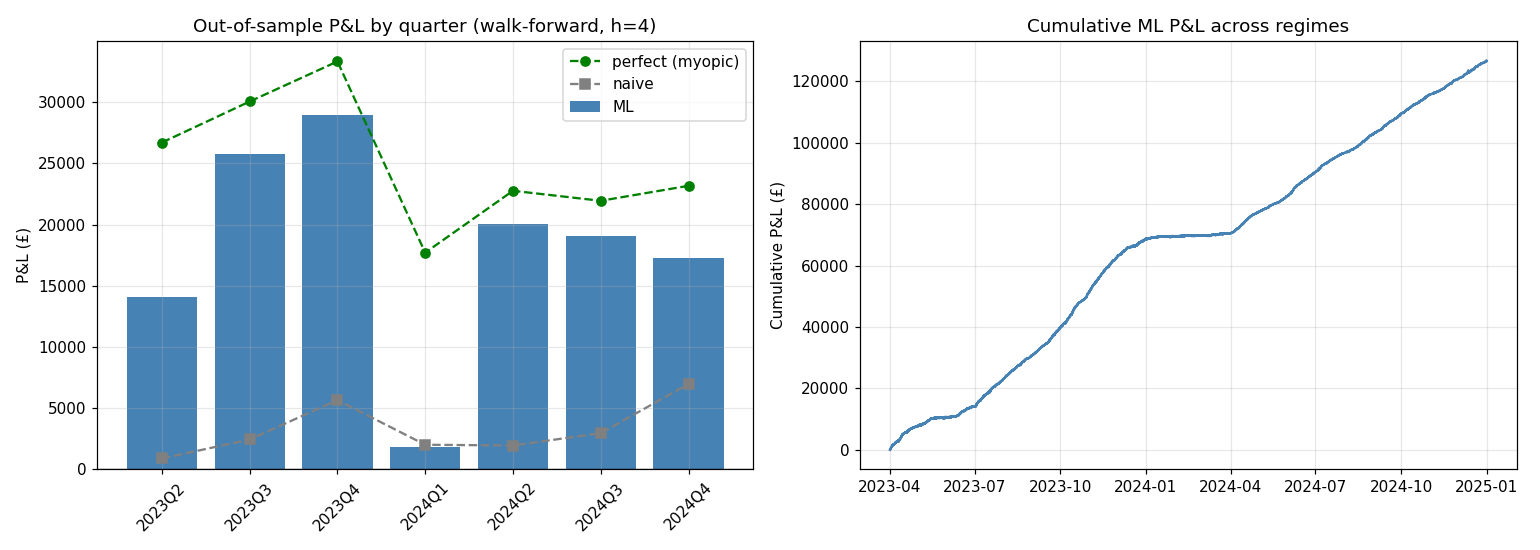
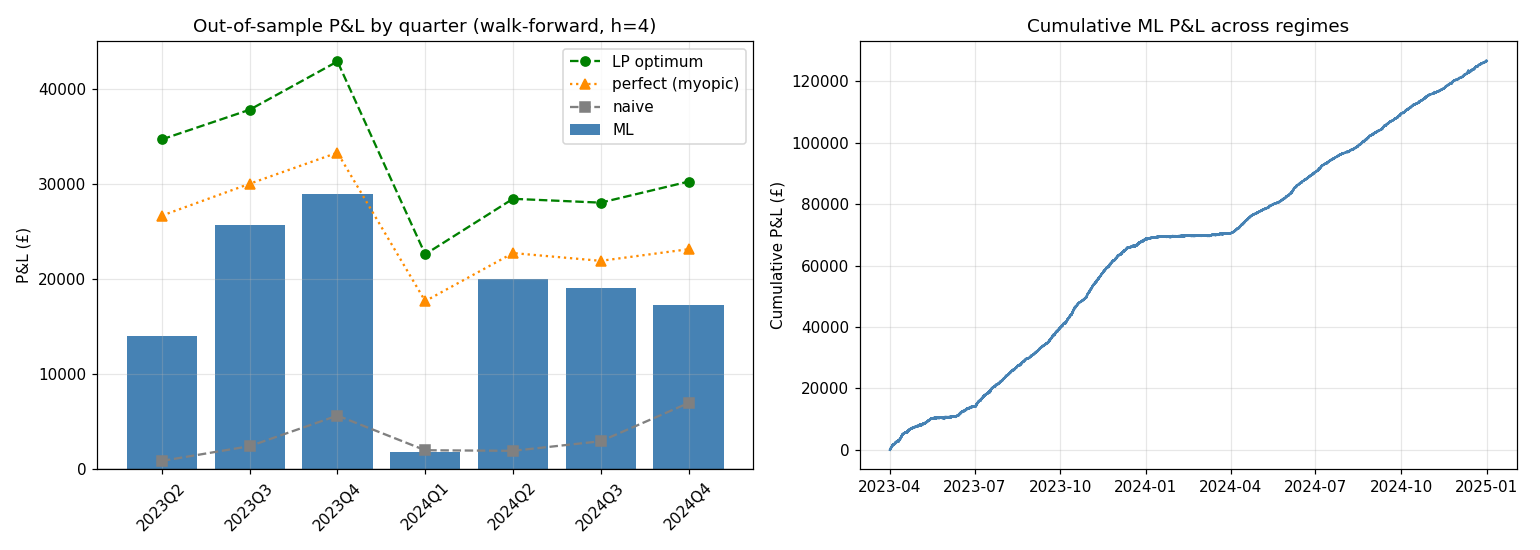
Stage 3: LP perfect-foresight optimal dispatch (true upper bound)
Adds a genuine optimal-dispatch benchmark, replacing the mislabelled myopic one
as the yardstick for captured value.

- optimize.py: linear program (scipy HiGHS) for the globally optimal charge/
  discharge schedule under all constraints (capacity, min/max SoC, per-period
  power, one-way efficiency, transaction + degradation costs, terminal MtM).
  Cheats on future prices -> benchmark only, never a strategy. No causal policy
  can beat it, so it is the true upper bound.
- backtest.py / robustness.py: report LP optimum alongside myopic + naive;
  capture is now measured against the LP optimum.
- test: LP >= myopic, never loses, respects power limits.

Result (2 years walk-forward): LP optimum > myopic > ML > naive every quarter.
The tuned ML policy captures 56% of the LP optimum (vs 72% of the weaker myopic
reference) - an honest ~44% value gap that motivates a receding-horizon (MPC)
policy feeding forecasts into the LP.

Advances issue #2 (Stage 3 optimisation). 11/11 tests pass.

diff --git a/robustness.py b/robustness.py
@@ -20,6 +20,7 @@ import matplotlib.pyplot as plt
 import pandas as pd
 
 import benchmarks
+from optimize import optimal_dispatch
 from config import load_battery_config, load_trading_config
 from data_pipeline import assemble_market_data
 from evaluate import evaluate
@@ -41,9 +42,10 @@ class QuarterResult:
     ml_sharpe: float
     ml_maxdd: float
     ml_var95: float
-    perfect_pnl: float
+    lp_pnl: float        # LP perfect-foresight optimum — the TRUE upper bound
+    myopic_pnl: float    # myopic perfect-foresight reference
     naive_pnl: float
-    capture: float   # ml_pnl / perfect_pnl (share of achievable value)
+    capture: float       # ml_pnl / lp_pnl (share of the achievable optimum)
 
 
 def run():
@@ -75,7 +77,9 @@ def run():
         ml_req = model_requests(model, X.loc[test_idx], dft, batt, trade)
         ml_sim = simulate(ml_req, ssp, sbp, batt, trade)
         ml = evaluate(ml_sim, batt)
-        perfect = evaluate(simulate(
+        lp = evaluate(simulate(
+            optimal_dispatch(dft, batt, trade), ssp, sbp, batt, trade), batt)
+        myopic = evaluate(simulate(
             benchmarks.perfect_foresight_myopic(dft, batt, trade, HORIZON), ssp, sbp, batt, trade), batt)
         naive = evaluate(simulate(
             benchmarks.naive_time_of_day(dft, batt), ssp, sbp, batt, trade), batt)
@@ -83,9 +87,9 @@ def run():
         results.append(QuarterResult(
             quarter=str(q), periods=len(test_idx),
             ml_pnl=ml.total_pnl, ml_sharpe=ml.sharpe_annualised, ml_maxdd=ml.max_drawdown,
-            ml_var95=ml.var_95_per_period, perfect_pnl=perfect.total_pnl,
+            ml_var95=ml.var_95_per_period, lp_pnl=lp.total_pnl, myopic_pnl=myopic.total_pnl,
             naive_pnl=naive.total_pnl,
-            capture=(ml.total_pnl / perfect.total_pnl) if perfect.total_pnl > 0 else float("nan"),
+            capture=(ml.total_pnl / lp.total_pnl) if lp.total_pnl > 0 else float("nan"),
         ))
         # Collect per-period P&L increments; cumsum across quarters gives a continuous
         # curve. Zero the first period of each quarter (it only revalues the identical
@@ -103,26 +107,28 @@ def run():
 def _report(results):
     print(f"\nWalk-forward by quarter (expanding window, horizon={HORIZON}):\n")
     hdr = f"{'quarter':>8}{'periods':>8}{'ML P&L':>10}{'Sharpe':>8}{'MaxDD':>8}" \
-          f"{'perfect':>10}{'naive':>9}{'capture':>9}"
+          f"{'LP opt':>10}{'myopic':>10}{'naive':>9}{'capture':>9}"
     print(hdr)
     for r in results:
         print(f"{r.quarter:>8}{r.periods:>8}{r.ml_pnl:>10,.0f}{r.ml_sharpe:>8.2f}"
-              f"{r.ml_maxdd:>8.2%}{r.perfect_pnl:>10,.0f}{r.naive_pnl:>9,.0f}{r.capture:>9.0%}")
+              f"{r.ml_maxdd:>8.2%}{r.lp_pnl:>10,.0f}{r.myopic_pnl:>10,.0f}"
+              f"{r.naive_pnl:>9,.0f}{r.capture:>9.0%}")
 
     if not results:
         print("(no quarters with enough history)")
         return
     ml_total = sum(r.ml_pnl for r in results)
-    perfect_total = sum(r.perfect_pnl for r in results)
+    lp_total = sum(r.lp_pnl for r in results)
     beats_naive = sum(r.ml_pnl > r.naive_pnl for r in results)
     profitable = sum(r.ml_pnl > 0 for r in results)
     print(f"\nAggregate over {len(results)} quarters:")
-    print(f"  ML total P&L         £{ml_total:,.0f}")
-    print(f"  Capture vs perfect   {ml_total / perfect_total:.0%}" if perfect_total else "")
-    print(f"  Profitable quarters  {profitable}/{len(results)}")
-    print(f"  Beats naive          {beats_naive}/{len(results)}")
-    print(f"  Mean quarter Sharpe  {sum(r.ml_sharpe for r in results) / len(results):.2f}")
-    print(f"  Worst quarter P&L    £{min(r.ml_pnl for r in results):,.0f}")
+    print(f"  ML total P&L            £{ml_total:,.0f}")
+    print(f"  LP optimum (ceiling)    £{lp_total:,.0f}")
+    print(f"  Capture vs LP optimum   {ml_total / lp_total:.0%}" if lp_total else "")
+    print(f"  Profitable quarters     {profitable}/{len(results)}")
+    print(f"  Beats naive             {beats_naive}/{len(results)}")
+    print(f"  Mean quarter Sharpe     {sum(r.ml_sharpe for r in results) / len(results):.2f}")
+    print(f"  Worst quarter P&L       £{min(r.ml_pnl for r in results):,.0f}")
 
 
 def _plot(results, ml_equity_pieces):
@@ -135,7 +141,8 @@ def _plot(results, ml_equity_pieces):
     fig, ax = plt.subplots(1, 2, figsize=(14, 5))
     quarters = [r.quarter for r in results]
     ax[0].bar(quarters, [r.ml_pnl for r in results], color="steelblue", label="ML")
-    ax[0].plot(quarters, [r.perfect_pnl for r in results], "o--", color="green", label="perfect (myopic)")
+    ax[0].plot(quarters, [r.lp_pnl for r in results], "o--", color="green", label="LP optimum")
+    ax[0].plot(quarters, [r.myopic_pnl for r in results], "^:", color="darkorange", label="perfect (myopic)")
     ax[0].plot(quarters, [r.naive_pnl for r in results], "s--", color="grey", label="naive")
     ax[0].axhline(0, color="black", lw=0.8)
     ax[0].set_title(f"Out-of-sample P&L by quarter (walk-forward, h={HORIZON})")

diff --git a/optimize.py b/optimize.py
@@ -1,0 +1,71 @@
+"""Stage 3 — perfect-foresight optimal dispatch via linear programming.
+
+Given the realised prices over a window, this computes the *globally* optimal
+charge/discharge schedule subject to the real battery constraints (capacity, min/max
+SoC, per-period power, one-way efficiency, transaction + degradation costs). Unlike the
+myopic ``perfect_foresight_myopic`` benchmark, this is a genuine **upper bound**: no
+causal strategy can beat it, so it is the right yardstick for "what fraction of the
+achievable value is the forecast capturing?".
+
+It cheats (uses future prices), so it is a benchmark only — never a tradeable strategy.
+
+Battery-side decision variables per period t:
+    a_t >= 0  energy added to the battery  (buy a_t/eff from grid)
+    r_t >= 0  energy removed from the battery (sell r_t*eff to grid)
+SoC_t = SoC_0 + sum_{i<=t} (a_i - r_i),   lo <= SoC_t <= hi,   0 <= a_t,r_t <= max_step.
+
+Maximise realised cash + terminal liquidation of leftover SoC (matching simulate.py's
+mark-to-market), which is linear in a, r.
+"""
+from __future__ import annotations
+
+import numpy as np
+import pandas as pd
+from scipy import sparse
+from scipy.optimize import linprog
+
+from config import BatteryConfig, TradingConfig
+
+
+def optimal_dispatch(df: pd.DataFrame, batt: BatteryConfig, trade: TradingConfig) -> pd.Series:
+    """Return the optimal signed request Series (battery-side kWh; + charge / - discharge)
+    to feed ``simulate.simulate``."""
+    idx = df.index
+    T = len(idx)
+    if T == 0:
+        return pd.Series(dtype=float)
+
+    p_sell = df["SystemSellPrice"].to_numpy(dtype=float)
+    p_buy = df["SystemBuyPrice"].to_numpy(dtype=float)
+    eff = batt.efficiency_one_way
+    costs = trade.transaction_cost_per_mwh + batt.degradation_cost_per_mwh
+    max_step = batt.max_energy_per_period_kwh
+    soc0 = batt.capacity_kwh * batt.soc_init
+    lo, hi = batt.capacity_kwh * batt.soc_min, batt.capacity_kwh * batt.soc_max
+    p_final = p_sell[-1]
+
+    # Per-unit profit (£ per kWh battery-side). /1000 converts kWh -> MWh for pricing.
+    # charge a_t: pay (p_buy+costs)/eff per MWh grid; terminal value +eff*p_final.
+    prof_a = (-(p_buy + costs) / eff + eff * p_final) / 1000.0
+    # discharge r_t: receive eff*(p_sell-costs) per MWh; terminal value -eff*p_final.
+    prof_r = (eff * (p_sell - costs) - eff * p_final) / 1000.0
+    c = -np.concatenate([prof_a, prof_r])  # linprog minimises
+
+    # Cumulative SoC bounds: L is lower-triangular ones (prefix sums).
+    L = sparse.tril(np.ones((T, T)))
+    # upper:  L a - L r <=  hi - soc0
+    # lower: -L a + L r <=  soc0 - lo
+    A_ub = sparse.vstack([
+        sparse.hstack([L, -L]),
+        sparse.hstack([-L, L]),
+    ]).tocsr()
+    b_ub = np.concatenate([np.full(T, hi - soc0), np.full(T, soc0 - lo)])
+
+    bounds = [(0.0, max_step)] * (2 * T)
+    res = linprog(c, A_ub=A_ub, b_ub=b_ub, bounds=bounds, method="highs")
+    if not res.success:
+        raise RuntimeError(f"LP dispatch failed: {res.message}")
+
+    a = res.x[:T]
+    r = res.x[T:]
+    return pd.Series(a - r, index=idx)

diff --git a/tests/test_pipeline.py b/tests/test_pipeline.py
@@ -115,6 +115,22 @@ def test_decision_gates_on_min_edge():
     assert d_big.request_kwh > 0.0
 
 
+def test_lp_dispatch_is_a_true_upper_bound():
+    """LP optimal dispatch must be >= the myopic perfect-foresight rule and never lose,
+    while respecting SoC/power limits (checked via the simulator)."""
+    from optimize import optimal_dispatch
+    df = make_market(days=20, seed=5)
+    ssp, sbp = df["SystemSellPrice"], df["SystemBuyPrice"]
+    lp_req = optimal_dispatch(df, BATT, TRADE)
+    lp = evaluate(simulate(lp_req, ssp, sbp, BATT, TRADE), BATT)
+    myopic = evaluate(simulate(
+        benchmarks.perfect_foresight_myopic(df, BATT, TRADE), ssp, sbp, BATT, TRADE), BATT)
+    assert lp.total_pnl >= myopic.total_pnl - 1e-6      # optimum dominates the myopic rule
+    assert lp.total_pnl >= -1e-6                         # never loses money with foresight
+    # Feasibility: the simulator should not have to clip the LP's own requests.
+    assert lp_req.abs().max() <= BATT.max_energy_per_period_kwh + 1e-6
+
+
 def test_confidence_sizing_is_monotonic_and_capped():
     """Bigger edge -> bigger (or equal) size, never above full power."""
     full = BATT.max_energy_per_period_kwh

diff --git a/backtest.py b/backtest.py
@@ -24,6 +24,7 @@ from strategy import model_requests
 from simulate import simulate
 from evaluate import evaluate
 from tuning import sweep
+from optimize import optimal_dispatch
 import benchmarks
 
 TRAIN_FRAC, VAL_FRAC = 0.6, 0.2  # remainder is test
@@ -66,6 +67,7 @@ def run():
     strategies = {
         "ML forecast (tuned)": model_requests(reg, X.loc[test_idx], df_test, batt, trade,
                                               size_scale=best.size_scale),
+        "LP optimum (true upper bound)": optimal_dispatch(df_test, batt, trade),
         "Perfect-foresight myopic rule": benchmarks.perfect_foresight_myopic(
             df_test, batt, trade, best.horizon),
         "Naive time-of-day": benchmarks.naive_time_of_day(df_test, batt),

diff --git a/README.md b/README.md
@@ -74,10 +74,11 @@ pytest -q              # verify the pipeline on synthetic data (no CSVs needed)
 prior data, test on the quarter) and reports per-quarter and aggregate P&L / Sharpe /
 drawdown / capture-vs-benchmark, saving a plot to `figs/robustness_walkforward.png`.
 
-`backtest.py` prints a strategy comparison table (ML vs a perfect-foresight *myopic*
-reference — not a true optimal-dispatch bound — vs
-naïve baseline) with P&L, £/MWh, Sharpe, max drawdown and VaR, plus the top forecast
-drivers.
+`backtest.py` prints a strategy comparison table — ML vs the **LP optimum** (perfect-
+foresight optimal dispatch, `optimize.py`, a genuine upper bound), the perfect-foresight
+*myopic* reference, and the naïve baseline — with P&L, £/MWh, Sharpe, max drawdown and
+VaR, plus the top forecast drivers. Capture-vs-LP is the honest "how much of the
+achievable value did the forecast get?" metric.
 
 ## Configuration
 - `BatteryConfig.yaml` — capacity/power/efficiency/SoC limits/degradation (consistent kWh & kW).

diff --git a/ROADMAP.md b/ROADMAP.md
@@ -46,8 +46,11 @@ transaction cost, min/max SoC, and (ideally) forecast uncertainty.
 
 Status: `decision.py` (heuristic edge-vs-cost policy, with confidence-proportional
 trade sizing) + `simulate.py` (enforces all listed constraints). Horizon and sizing are
-tuned on validation. Optimisation-based dispatch (LP/MPC) — which would also give a true
-optimal-dispatch upper bound — is the planned alternative policy.
+tuned on validation. `optimize.py` adds a **perfect-foresight LP dispatch** (HiGHS) that
+respects every constraint — the **true upper bound**. Across 2 years the tuned ML policy
+captures **56% of the LP optimum** (vs 72% of the weaker myopic reference); the ML→LP gap
+motivates a **receding-horizon (MPC)** policy that feeds forecasts into the LP — the next
+step, and the way to turn the forecast into a near-optimal *causal* strategy.
 
 ### 4. Measure the commercial outcome
 Aim to be able to say: "Backtested across X months, £X/MWh average gross value,
